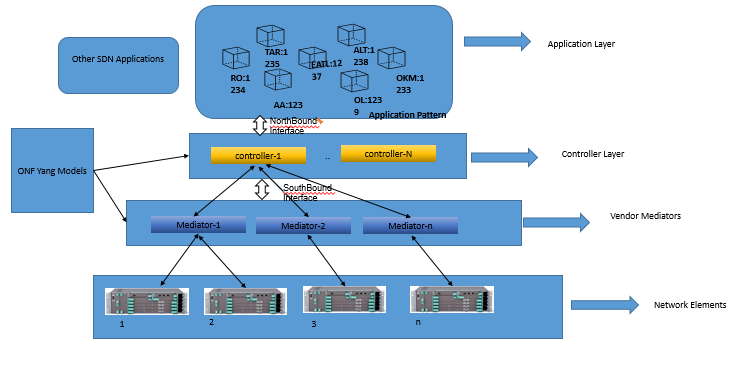
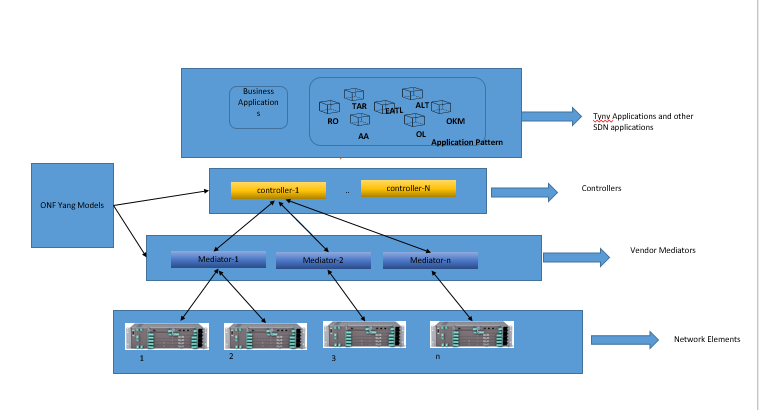
added and modified the content and images

diff --git a/doc/TestingApplications/Infrastructure/SDNApplicationPatternDeployment/Overview.md b/doc/TestingApplications/Infrastructure/SDNApplicationPatternDeployment/Overview.md
@@ -26,7 +26,7 @@
 ### Overview:
 Currently, the application pattern is building an application layer on SDN controller using the microservice architecture where the complex applications are spilt into small pieces and make them run independently. 
 
-![AllApplications](Images/Applications.png)
+![Overview](Images/sdn%20application%20deployment.PNG)
 
 To test the application pattern we are using the CI/CD methodology which includes continuous integration and continuous delivery/continuous deployment. CI means the name itself explains us, developer makes the changes continuosly and do continous build, tests until requirement fullfilled, CI will make this process easier and it automatically integrates the changes into current repository and test the applications. CD is like continuous delivery/continuous deployment an automated delivery process which includes testing and delivery the SW. Once everything is fine in automation testing, continous deployments perfomed in production environments.
 
@@ -136,8 +136,6 @@ Here how we configure Pipeline job in testbed environment, in the same way we ha
 - Load the released docker image
 - Run Docker container using image
 - Testing stage(Integration tests in Production) 
-##### CI/CD Pipeline Flow
-![pipeline](./Images/cicdflow.jpg)
 
 ##### Automated pipeline scripts
 **Manual : Copy tar file into server**
@@ -166,10 +164,15 @@ Once pipeline script executed and Applications(ex: RO,TAR,EATL etc) deployed usi
 
 ![RO](Images/ro.png) 
 
+Example structure of Applications deployed on docker engine:
+
+![Allapplications in siglepage](Images/AllApplicationsexample.PNG)
+
 #### Run the Automation testsuites 
 Automation testsuites running imediately after the application deployment.Integration Testing run in production/preprod environment 
 
  - [Integration Testing](../../../IntegrationTesting/Overview/Overview.md)
+
  
 #### Email Notification
 

diff --git a/doc/TestingApplications/Infrastructure/Tools/Docker/Docker.md b/doc/TestingApplications/Infrastructure/Tools/Docker/Docker.md
@@ -138,7 +138,7 @@ While running the applications as container, the created volumes will be maintai
         sudo docker run -d -p <port>:<port> --name <imagename> -v <volumename>:<pathtomount><localmountedpath>
         ex : sudo docker run -d -p <1234>:<1234> --name registry-office-image -v registry-office:/home/openbackhaul/registryOffice/database /home/registry-office
         
-#### Dockerized SDN Application 
+#### Dockerized SDN Application with RegistryOffice example
 ![SDN dockerized Application Pattern](Images/exmpleROdockerimage.PNG)
 
 
